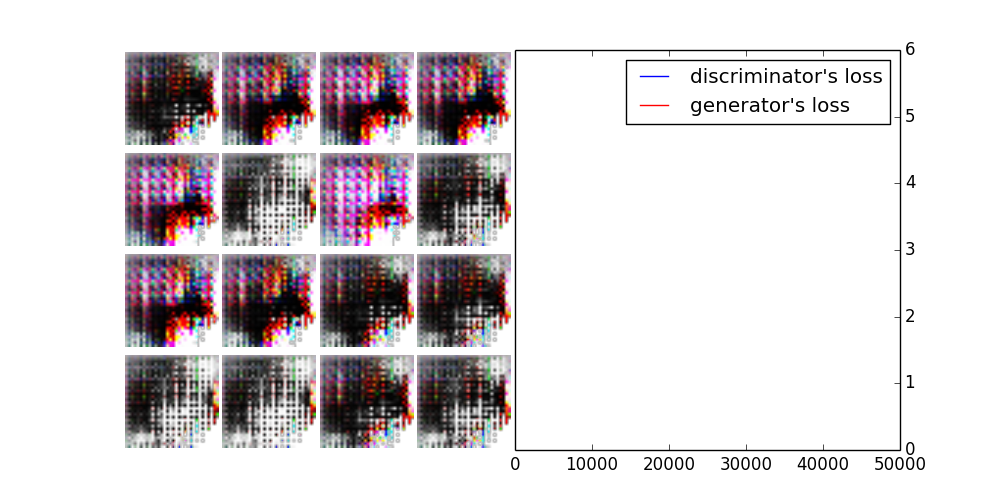
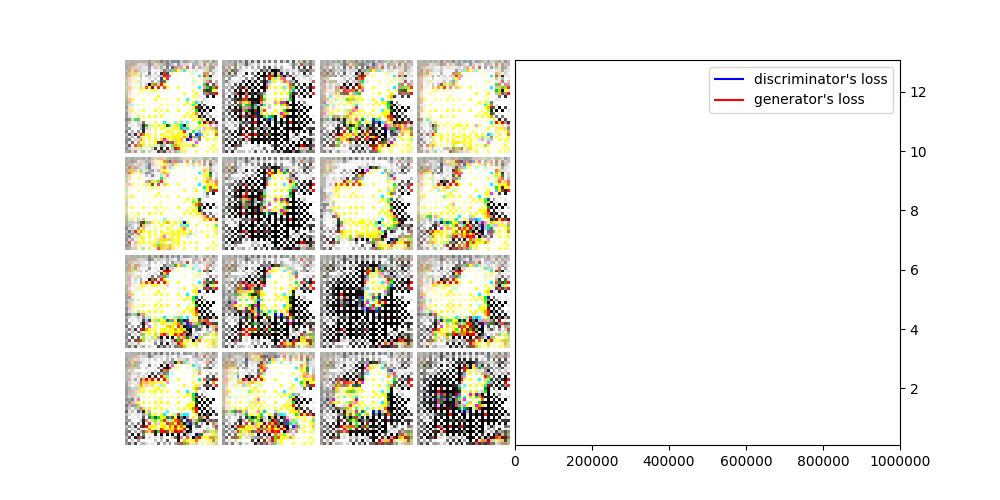
Move minibatch discrim to bgeginning/end

diff --git a/main.py b/main.py
@@ -13,16 +13,16 @@ import scipy.misc
 import commands
 import time
 
-ITERATIONS = 50
+ITERATIONS = 10
 BATCH_SIZE = 64
-EPOCHS = 1000
+EPOCHS = 100000
 IMAGE_SIZE = 32*32*4
 
 image_filenames = []
 
 def get_image_filenames():
-	s = commands.getstatusoutput('ls data')
-	filenames = ['data/' + string for string in s[1].split()]
+	s = commands.getstatusoutput('ls small_data')
+	filenames = ['small_data/' + string for string in s[1].split()]
 	shuffle(filenames)
 	return filenames
 image_filenames = get_image_filenames() # Load all image filenames into memory
@@ -157,7 +157,7 @@ def BatchNormalization(input, name='bn'):
 def LeakyReLU(input, leak=0.6, name='lrelu'):
 	return tf.maximum(input, leak*input, name='LeakyRelu')
 
-def minibatch(inputs, num_kernels=5, kernel_dim=3):
+def minibatch(inputs, num_kernels=32, kernel_dim=3):
 	with tf.variable_scope('minibatch_discrim'):
 		W = tf.get_variable("W",
 							shape=[inputs.get_shape()[1], num_kernels*kernel_dim],
@@ -173,8 +173,7 @@ def minibatch(inputs, num_kernels=5, kernel_dim=3):
 			tf.transpose(activation, [1, 2, 0]), 0)
 		eps = tf.expand_dims(np.eye(int(inputs.get_shape()[0]), dtype=np.float32), 1)
 		abs_diffs = tf.reduce_sum(tf.abs(diffs), 2) + eps
-		minibatch_features = tf.reduce_sum(tf.exp(-abs_diffs), 2)
-		return tf.concat([inputs, minibatch_features], 1)
+		return tf.reduce_sum(tf.exp(-abs_diffs), 2)
 
 def Discriminator(X, reuse=False, name='d'):
 	# 2 conv3s, avg pool. then 2 conv3s, avg pool.
@@ -186,6 +185,9 @@ def Discriminator(X, reuse=False, name='d'):
 		else:
 			D_reshaped = tf.reshape(X, [BATCH_SIZE, 32, 32, 4])
 			D_conv1 = Conv2d(D_reshaped, output_dim=32, kernel=(3,3), name='conv1')
+
+		D_conv1_reshaped = tf.reshape(D_conv1, [BATCH_SIZE, -1])
+		minibatch_features = minibatch(D_conv1_reshaped) # Saved for the end
 		D_h1 = LeakyReLU(D_conv1)
 
 		D_conv2 = Conv2d(D_h1, output_dim=64, kernel=(3,3), name='conv2')
@@ -201,13 +203,11 @@ def Discriminator(X, reuse=False, name='d'):
 		D_h4_pooled = tf.nn.avg_pool(D_h4, ksize=[1, 2, 2, 1], strides=[1, 2, 2, 1], padding='SAME')
 
 		D_r = tf.reshape(D_h4_pooled, [BATCH_SIZE, 256])
-		D_h5 = tf.nn.dropout(D_r, 0.6)
-
-		D_after_minibatch_discrim = minibatch(D_h5)
-
-		D_h6 = Dense(D_after_minibatch_discrim, output_dim=1, name='dense')
+		D_r_with_minibatch_discrim = tf.concat([D_r, minibatch_features], 1)
+		D_h5 = tf.nn.dropout(D_r_with_minibatch_discrim, 0.6)
+		D_h6 = Dense(D_h5, output_dim=1, name='dense')
 		preds = tf.nn.sigmoid(D_h6, name='predictions')
-		return preds, D_h6, D_h4
+		return preds, D_h6, D_h4, minibatch_features
 
 def Generator(z, name='g'):
 
@@ -247,8 +247,8 @@ X = tf.placeholder(tf.float32, shape=[BATCH_SIZE, IMAGE_SIZE], name="real_images
 z = tf.placeholder(tf.float32, shape=[BATCH_SIZE, 100], name="generator_latent_space_input")
 
 G = Generator(z, 'Generator')
-D_real_prob, D_real_logits, feature_matching_real = Discriminator(X, False, 'Discriminator')
-D_fake_prob, D_fake_logits, feature_matching_fake = Discriminator(G, True, 'Discriminator')
+D_real_prob, D_real_logits, feature_matching_real, minibatch_similarity_real = Discriminator(X, False, 'Discriminator')
+D_fake_prob, D_fake_logits, feature_matching_fake, minibatch_similarity_fake = Discriminator(G, True, 'Discriminator')
 
 tf.summary.histogram("d_real_prob", D_real_prob)
 tf.summary.histogram("d_fake_prob", D_fake_prob)
@@ -259,11 +259,14 @@ D_fake_wrong = tf.reduce_mean(tf.nn.sigmoid_cross_entropy_with_logits(logits=D_f
 feature_matching_loss = tf.divide(tf.reduce_mean(tf.nn.l2_loss(feature_matching_real - feature_matching_fake)), (float(16) * 16), name="feature_matching_loss")
 
 D_loss = tf.add(D_real, D_fake, "disc_loss")
-G_loss = tf.add(D_fake_wrong, 0.2 * feature_matching_loss, "generator_loss")
+# Minibatch_similarity_loss = tf.nn.l2_loss(minibatch_features_real, minibatch_features_fake, "minibatch_similarity_loss")
+G_loss = tf.add(D_fake_wrong, (0.1 * feature_matching_loss), "generator_loss")
 
 tf.summary.scalar("D_real_loss", D_real)
 tf.summary.scalar("D_fake_loss", D_fake)
 tf.summary.scalar("feature_matching_loss", feature_matching_loss)
+tf.summary.histogram("minibatch_similarity_real", minibatch_similarity_real)
+tf.summary.histogram("minibatch_similarity_fake", minibatch_similarity_fake)
 tf.summary.scalar("G_loss", G_loss)
 
 vars = tf.trainable_variables()
@@ -279,8 +282,8 @@ def train(loss_tensor, params, learning_rate, beta1):
 	return optimizer.apply_gradients(grads)
 
 
-D_solver = train(D_loss, d_params, learning_rate=1e-3, beta1=0.5)
-G_solver = train(G_loss, g_params, learning_rate=1e-3, beta1=0.5)
+D_solver = train(D_loss, d_params, learning_rate=2e-3, beta1=0.5)
+G_solver = train(G_loss, g_params, learning_rate=2e-3, beta1=0.5)
 
 def normalize_image_batches(image_batches):
 	normalized_batches = np.zeros(image_batches.shape)
